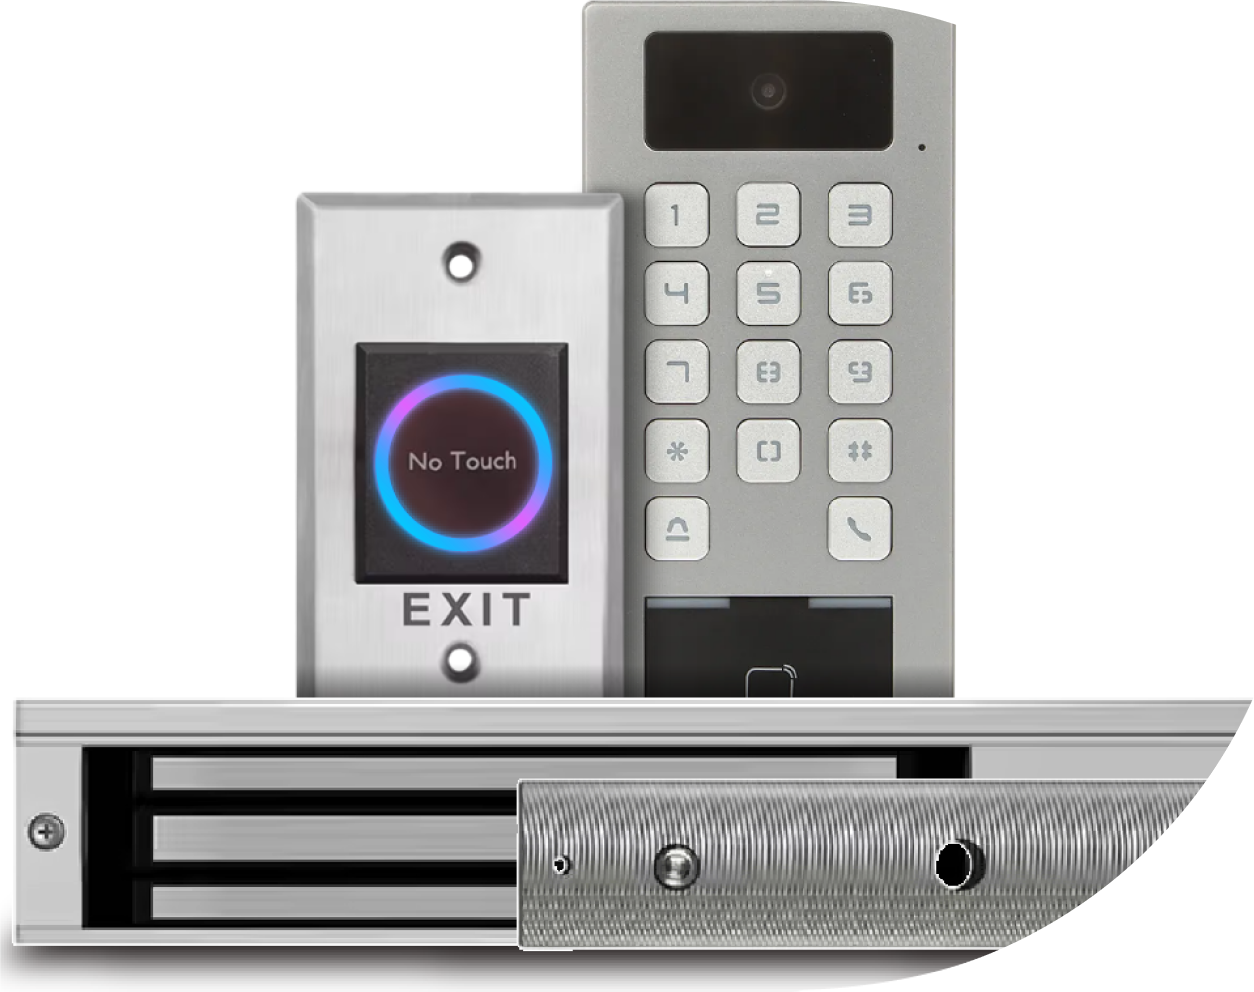
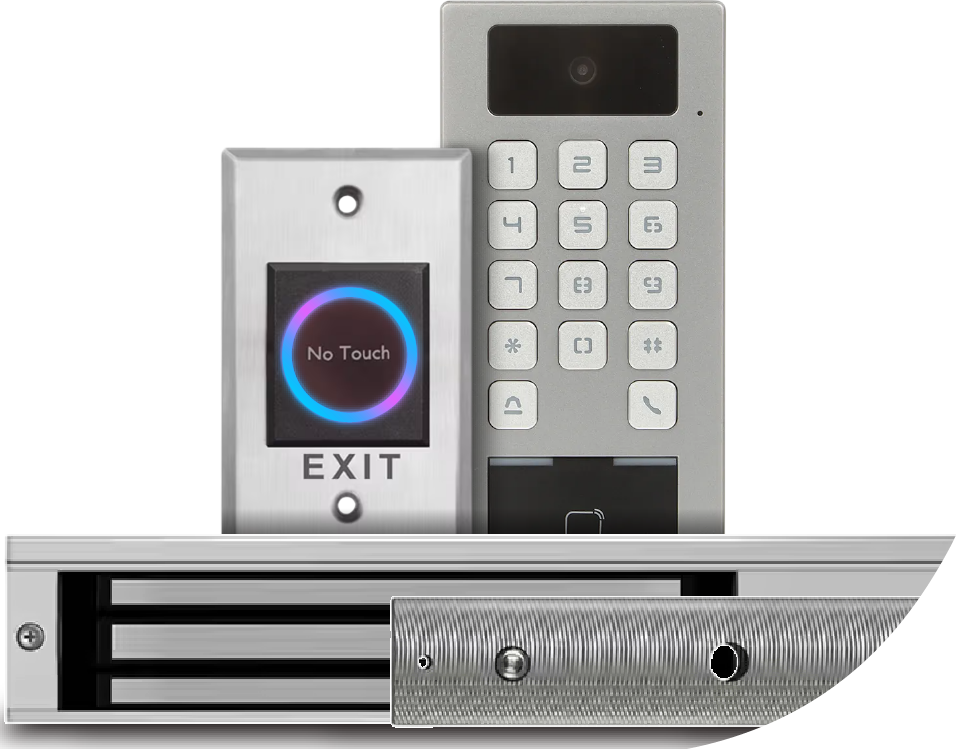
Refactor: Apply dynamic image properties and fine-tune 'control.png' display

Changed region(s): [[0.0, 0.0, 1.0, 1.0], [0.3337, 0.2457, 0.3944, 0.3071]]

diff --git a/components/marketing/HeroAjaxPulseVisual.tsx b/components/marketing/HeroAjaxPulseVisual.tsx
@@ -141,22 +141,29 @@ const EXTRA_RIGHT_INSET_PX: Record<(typeof IMAGES)[number], number> = {
 const EXTRA_TRANSLATE_Y: Record<(typeof IMAGES)[number], string> = {
   "/images/hero/ajax_devices.png": "0px",
   "/images/hero/cameras_devices.png": "7px",
-  "/images/hero/control.png": "0px",
+  "/images/hero/control.png": "15px",
   "/images/hero/soporte.png": "0px",
 };
 
 const EXTRA_TRANSLATE_X: Record<(typeof IMAGES)[number], string> = {
   "/images/hero/ajax_devices.png": "0px",
   "/images/hero/cameras_devices.png": "1px",
-  "/images/hero/control.png": "0px",
+  "/images/hero/control.png": "45px",
   "/images/hero/soporte.png": "0px",
 };
 
-/** El tester de soporte queda más alto que ancho, así que se ve más grande que el resto dentro de la misma caja; se reduce un poco, anclado a la misma esquina inferior derecha. */
+/**
+ * El tester de soporte queda más alto que ancho, así que se ve más grande que el resto
+ * dentro de la misma caja; se reduce un poco. El control de acceso se agranda un poco más
+ * de lo normal, pero al estar anclado abajo-a-la-derecha el sobrante crecía solo hacia
+ * arriba y se cortaba contra el techo de la caja (que ya estaba llena al 100% antes de
+ * agrandarla) — por eso EXTRA_TRANSLATE_Y lo baja un poco, repartiendo el sobrante entre
+ * arriba y abajo en vez de cortar solo arriba.
+ */
 const EXTRA_SCALE: Record<(typeof IMAGES)[number], number> = {
   "/images/hero/ajax_devices.png": 1,
   "/images/hero/cameras_devices.png": 1,
-  "/images/hero/control.png": 1,
+  "/images/hero/control.png": 1.05,
   "/images/hero/soporte.png": 0.8,
 };
 
@@ -383,10 +390,10 @@ export function HeroAjaxPulseVisual({
           position: "absolute",
           left: "10.6%",
           top: "30.55%",
-          width: `${BOX_WIDTH_PX}px`,
+          width: `${IMAGE_BOX_WIDTH_PX[currentSrc]}px`,
           height: `${BOX_HEIGHT_PX}px`,
           overflow: "hidden",
-          clipPath: PHOTO_BOX_CLIP_PATH,
+          clipPath: IMAGE_CLIP_PATH[currentSrc],
           zIndex: 2,
         }}
       >
@@ -422,10 +429,10 @@ export function HeroAjaxPulseVisual({
           position: "absolute",
           left: "10.6%",
           top: "30.55%",
-          width: `${BOX_WIDTH_PX}px`,
+          width: `${IMAGE_BOX_WIDTH_PX[nextSrc]}px`,
           height: `${BOX_HEIGHT_PX}px`,
           overflow: "hidden",
-          clipPath: PHOTO_BOX_CLIP_PATH,
+          clipPath: IMAGE_CLIP_PATH[nextSrc],
           zIndex: 2,
         }}
       >
